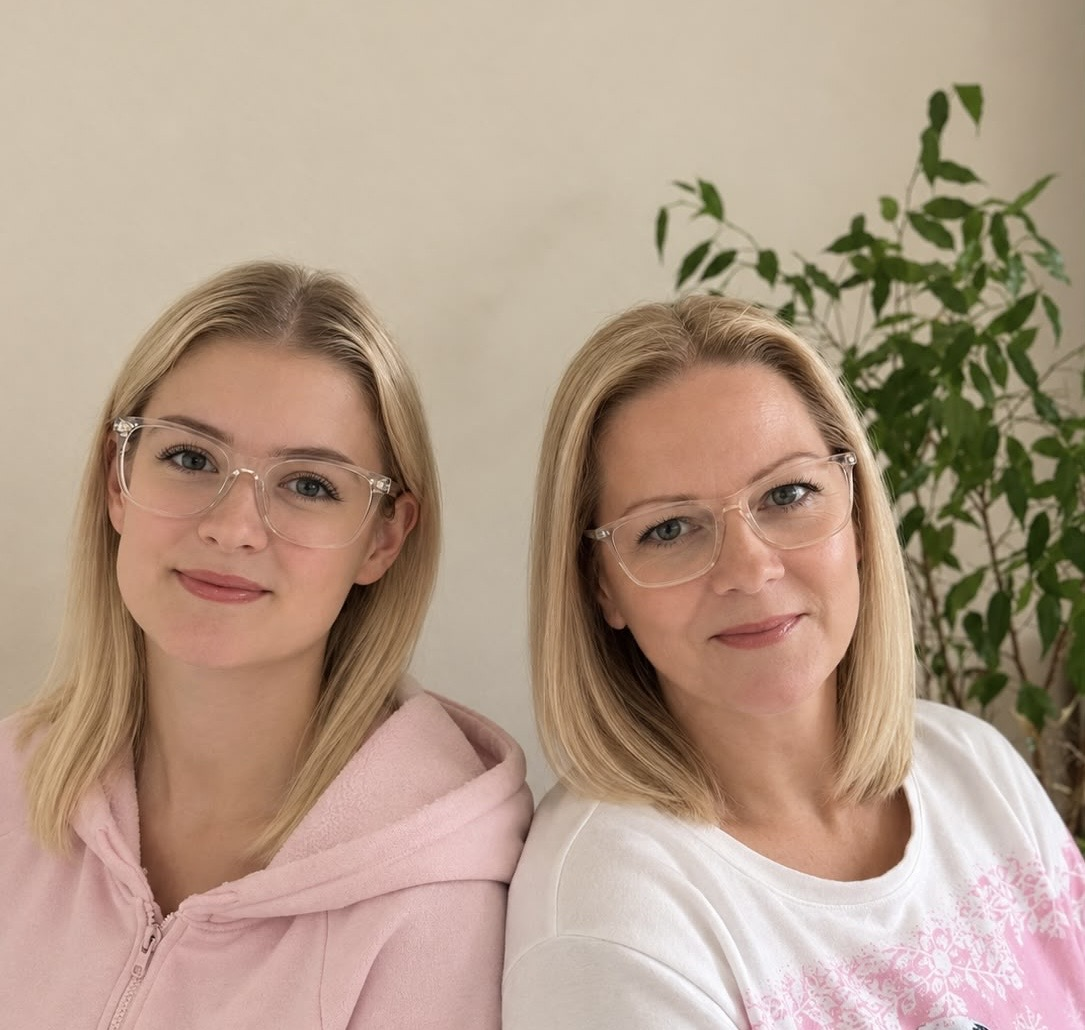
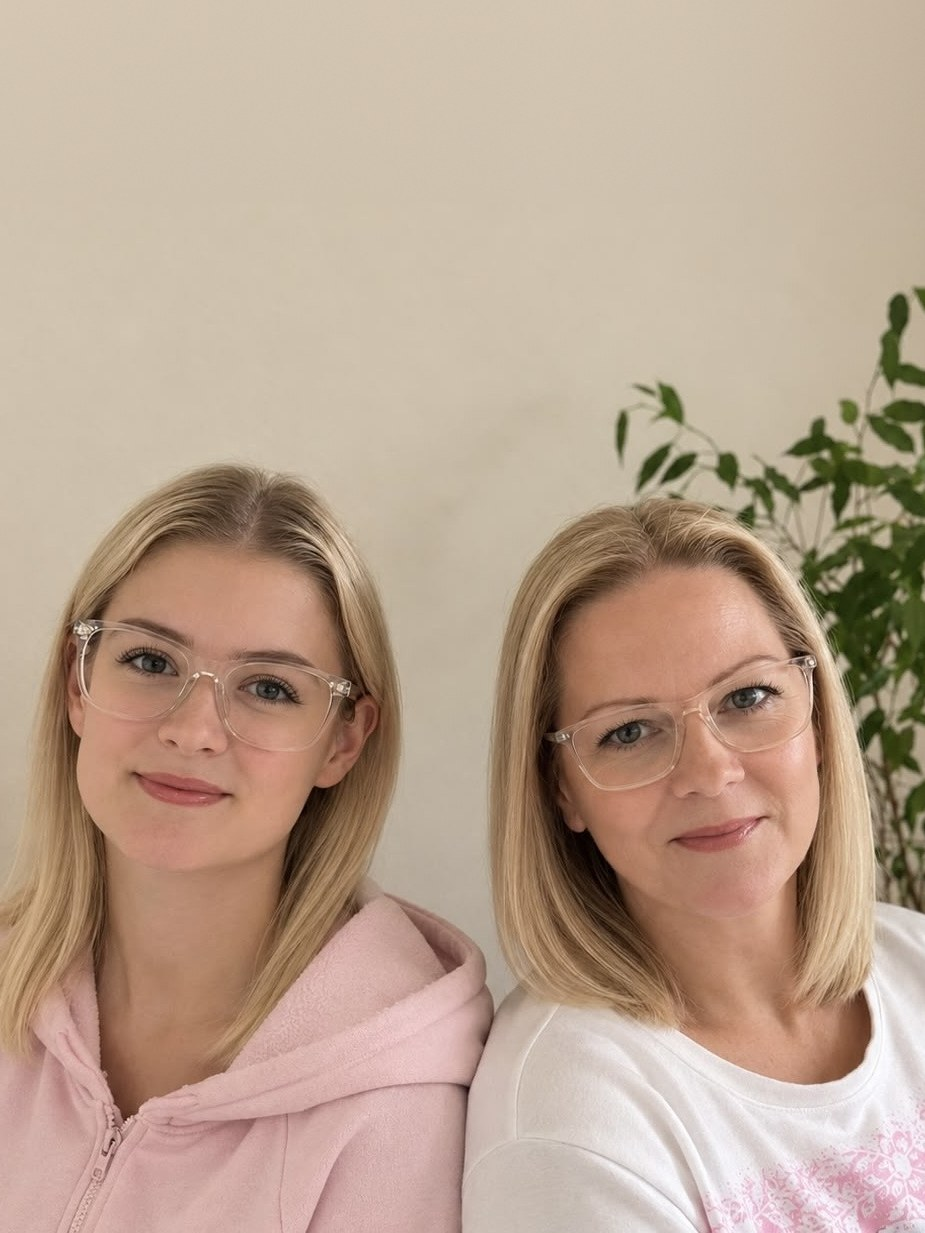
Fotos auf 3:4 gebracht: Wand oben verlängert, kein seitlicher Beschnitt im Bogen

diff --git a/index.html b/index.html
@@ -128,7 +128,7 @@
     <div class="container about-grid">
       <div class="about-photo reveal">
         <div class="arch">
-          <img src="assets/inhaber.jpeg" alt="Ginger und Melanie Münch, die Inhaberinnen von Alltagsengel" width="1086" height="1448" loading="lazy">
+          <img src="assets/inhaber.jpeg" alt="Ginger und Melanie Münch, die Inhaberinnen von Alltagsengel" width="925" height="1233" loading="lazy">
         </div>
         <span class="dot" aria-hidden="true"></span>
       </div>
@@ -157,7 +157,7 @@
         <ul class="carousel-track" aria-label="Unser Team">
           <li class="team-card">
             <div class="arch">
-              <img src="assets/team/ginger-melanie.jpeg" alt="Ginger und Melanie Münch sitzen nebeneinander und lächeln" width="1086" height="1448" loading="lazy">
+              <img src="assets/team/ginger-melanie.jpeg" alt="Ginger und Melanie Münch sitzen nebeneinander und lächeln" width="925" height="1233" loading="lazy">
             </div>
             <h3>Ginger &amp; Melanie Münch</h3>
             <p class="team-role">Geschäftsinhaberinnen<br>Fachkraft &amp; Verwaltung</p>
@@ -173,7 +173,7 @@
           </li>
           <li class="team-card">
             <div class="arch">
-              <img src="assets/team/stefan.jpeg" alt="Stefan Münch mit Brille vor einer Zimmerpflanze" width="1086" height="1448" loading="lazy">
+              <img src="assets/team/stefan.jpeg" alt="Stefan Münch mit Brille vor einer Zimmerpflanze" width="903" height="1204" loading="lazy">
             </div>
             <h3>Stefan Münch</h3>
             <p class="team-role">Kundenbetreuung und Organisation</p>
